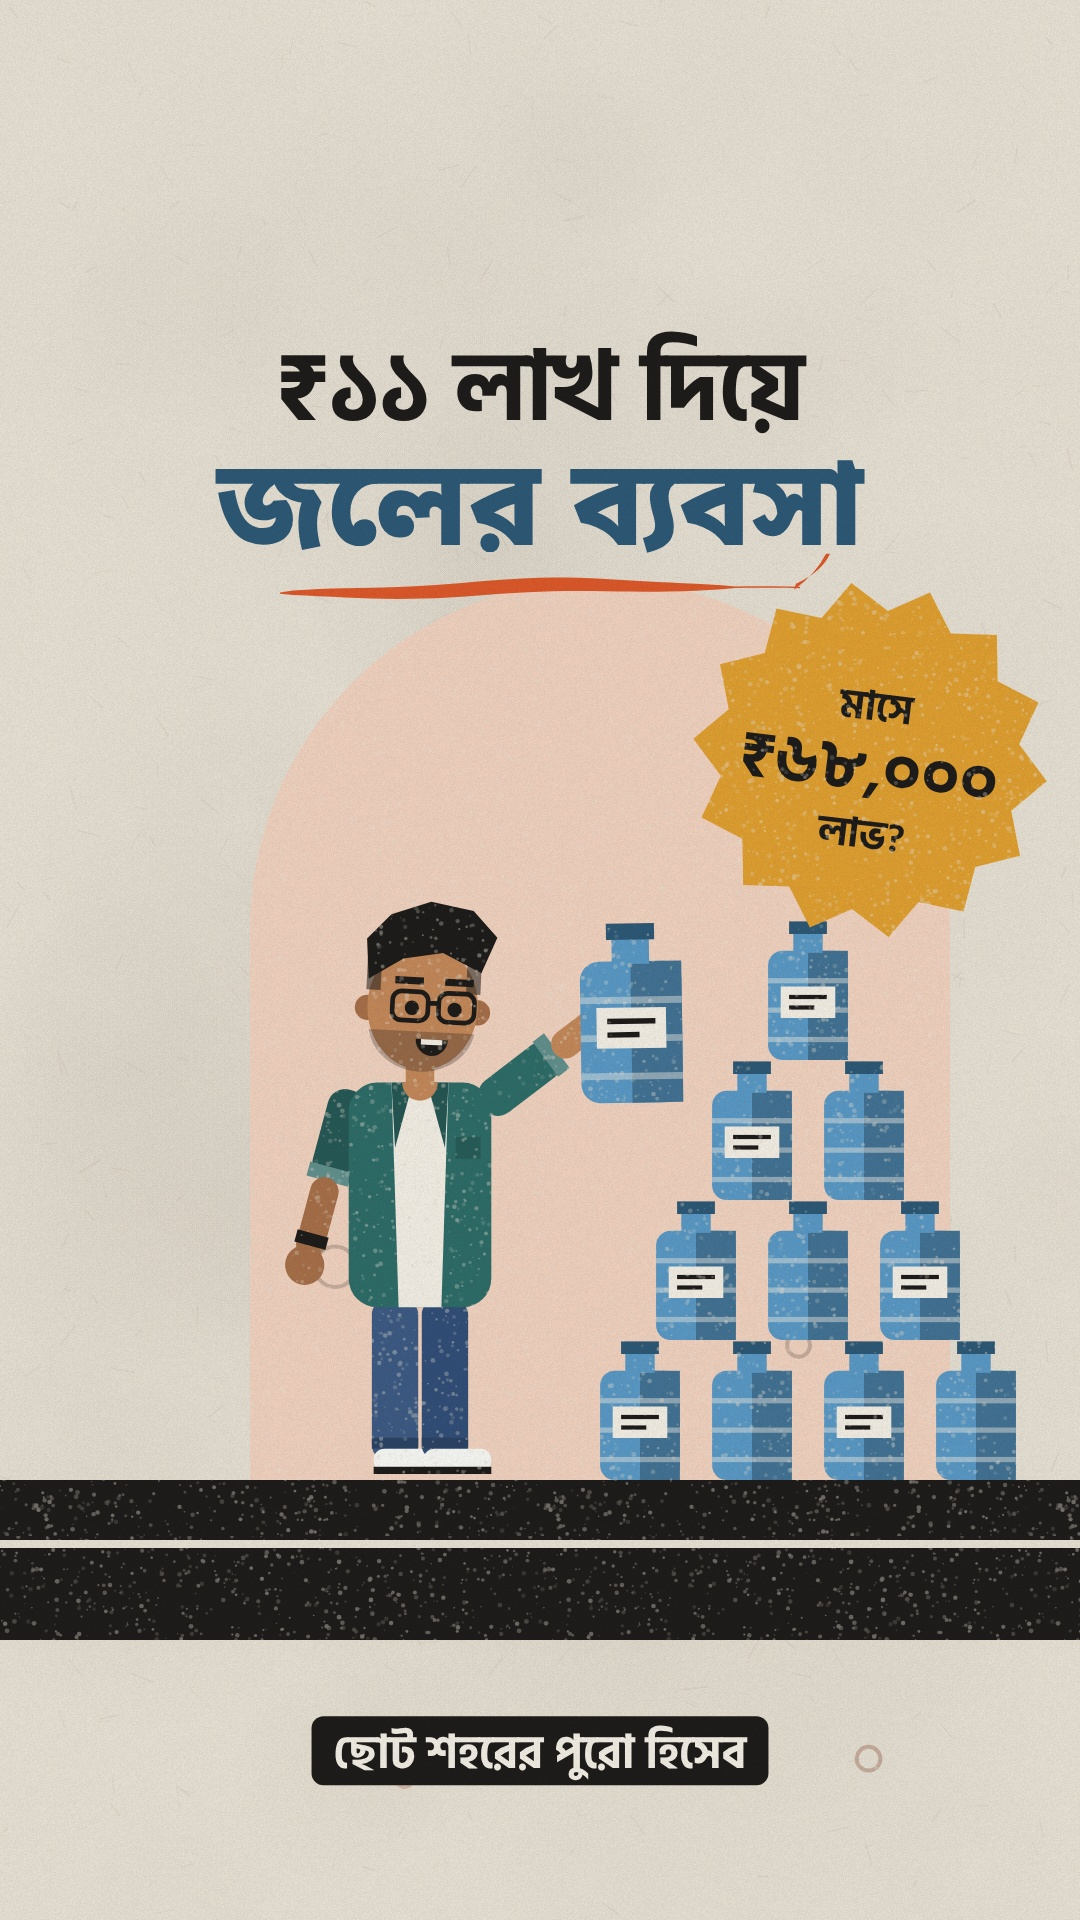
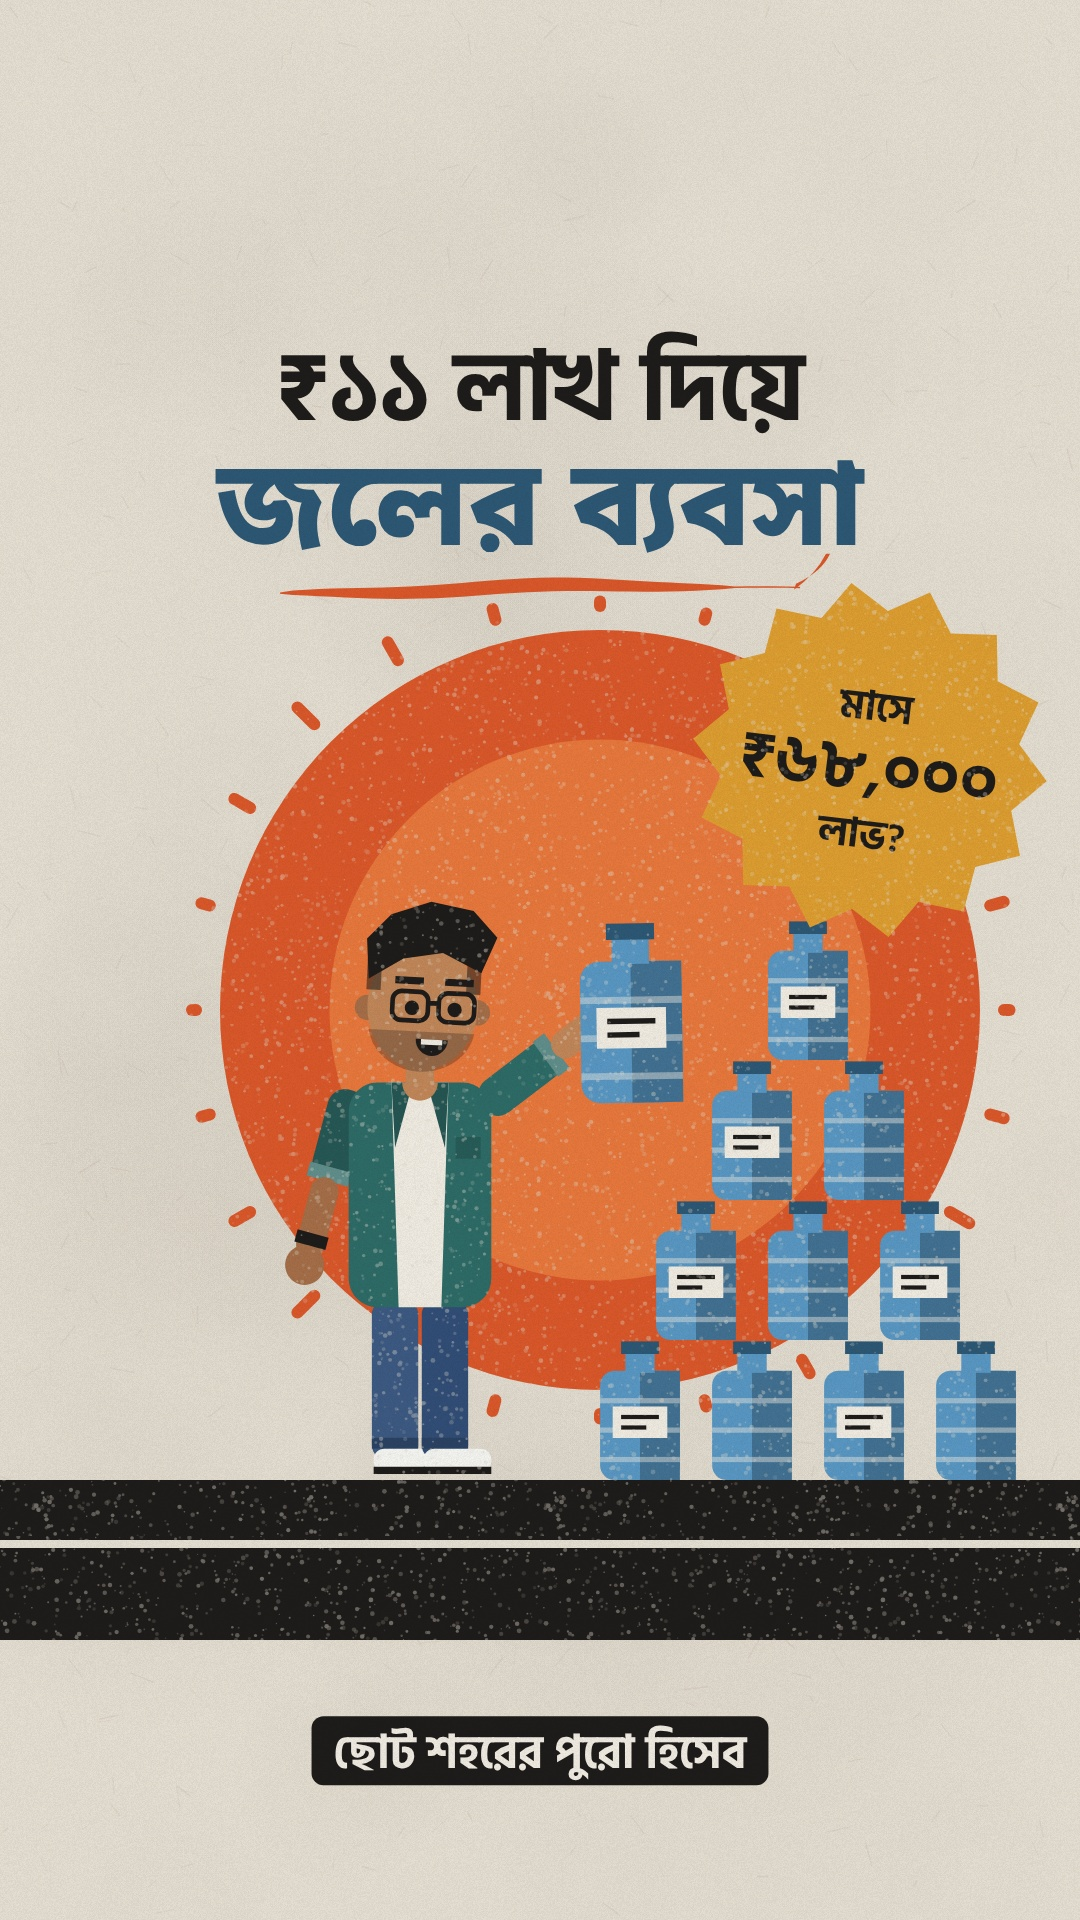
Orange sun circle back for the cover and first scene; lighter shapes with subtle halftone elsewhere
Claude-Session: https://claude.ai/code/session_01LrRKgZUbAWzSZxm4b8XdCu

Changed region(s): [[0.1833, 0.3125, 0.9472, 0.75], [0.8861, 0.625, 0.9167, 0.6562], [0.7944, 0.9062, 0.825, 0.9375]]

diff --git a/water-business/film.js b/water-business/film.js
@@ -244,35 +244,56 @@ const ART = {};
 // ---- soft modern backdrops (light tints), one shape per scene, gently animated
 const PAL = { peach: '#F5D5C2', mint: '#D3E6D8', sky: '#D2E2EE', butter: '#F4E4B8', lilac: '#E3D8EC', blush: '#F2D0CA', sand: '#EBDDC6' };
 const BACK = {
-  S01: ['arch', PAL.peach, 540, 1282, 640, 820], S02: ['blob', PAL.lilac, 520, 930, 380], S03: ['round', PAL.butter, 540, 900, 820, 760],
+  S01: ['sun', C.orange, 540, 900, 360], S02: ['blob', PAL.lilac, 520, 930, 380], S03: ['round', PAL.butter, 540, 900, 820, 760],
   S04: ['arch', PAL.lilac, 540, 1330, 760, 860], S05: ['round', PAL.mint, 540, 840, 900, 980], S06: ['blob', PAL.butter, 540, 860, 400],
   S07: ['round', PAL.sky, 540, 900, 900, 860], S08: ['blob', PAL.blush, 560, 960, 400], S09: ['arch', PAL.mint, 540, 1180, 820, 780],
   S10: ['blob', PAL.lilac, 540, 880, 410], S11: ['arch', PAL.sand, 470, 1330, 700, 800], S12: ['wave', PAL.mint, 540, 860, 960, 700],
   S13: ['round', PAL.peach, 540, 880, 900, 900], S14: ['split', PAL.peach, 540, 830, 920, 760], S15: ['arch', PAL.butter, 540, 1180, 860, 860],
-  S16: ['blob', PAL.peach, 540, 960, 420], INTRO: ['arch', PAL.peach, 600, 1480, 700, 900],
+  S16: ['blob', PAL.peach, 540, 960, 420], INTRO: ['sun', C.orange, 600, 1010, 380],
 };
 function backdrop(g, key, t, v) {
   const b = BACK[key]; if (!b || v <= 0) return;
   const [kind, col, x, y] = b, k = eo(v);
+  if (kind === 'sun') { g.save(); g.translate(x, y); g.scale(lerp(0.7, 1, back(v, 1.3)), lerp(0.7, 1, back(v, 1.3))); g.translate(-x, -y); sunDisc(g, x, y, b[4], t); g.restore(); return; }
   g.save(); g.globalAlpha *= clamp(v * 1.5);
-  if (kind === 'blob') {
-    const r = b[4] * lerp(0.6, 1, k); g.fillStyle = col; g.beginPath();
-    for (let i = 0; i <= 64; i++) { const a = i / 64 * TAU, rr = r * (1 + 0.07 * Math.sin(a * 3 + t * 0.9) + 0.05 * Math.sin(a * 5 - t * 1.3)); g.lineTo(x + Math.cos(a) * rr, y + Math.sin(a) * rr * 0.92); }
-    g.closePath(); g.fill();
-  } else if (kind === 'arch') {
-    const w = b[4] * lerp(0.8, 1, k), h = b[5] * k * (1 + Math.sin(t * 1.2) * 0.006);
-    g.fillStyle = col; g.beginPath(); g.moveTo(x - w / 2, y); g.lineTo(x - w / 2, y - h + w / 2); g.arc(x, y - h + w / 2, w / 2, Math.PI, 0); g.lineTo(x + w / 2, y); g.closePath(); g.fill();
-  } else if (kind === 'round') {
-    const w = b[4] * lerp(0.85, 1, k), h = b[5] * lerp(0.85, 1, k);
-    g.translate(x, y); g.rotate(Math.sin(t * 0.5) * 0.012); rrect(g, -w / 2, -h / 2, w, h, 90, col);
-  } else if (kind === 'wave') {
-    const w = b[4], h = b[5] * k; g.fillStyle = col; g.beginPath(); g.moveTo(x - w / 2, y + h / 2);
-    for (let i = 0; i <= 40; i++) { const u = i / 40; g.lineTo(x - w / 2 + w * u, y - h / 2 + Math.sin(u * 7 + t * 1.2) * 22); }
-    g.lineTo(x + w / 2, y + h / 2); g.closePath(); g.fill();
-  } else if (kind === 'split') {
-    rrect(g, x - b[4] / 2, y - b[5] / 2 - 30, b[4], b[5] / 2, 70, PAL.peach); rrect(g, x - b[4] / 2, y + 20, b[4], b[5] / 2, 70, PAL.sky);
+  const path = (ox = 0, oy = 0, sc = 1) => {
+    g.beginPath();
+    if (kind === 'blob') {
+      const r = b[4] * lerp(0.6, 1, k) * sc;
+      for (let i = 0; i <= 72; i++) { const a = i / 72 * TAU, rr = r * (1 + 0.07 * Math.sin(a * 3 + t * 0.9) + 0.05 * Math.sin(a * 5 - t * 1.3)); g.lineTo(x + ox + Math.cos(a) * rr, y + oy + Math.sin(a) * rr * 0.92); }
+      g.closePath();
+    } else if (kind === 'arch') {
+      const w = b[4] * lerp(0.8, 1, k) * sc, h = b[5] * k * sc * (1 + Math.sin(t * 1.2) * 0.006);
+      g.moveTo(x + ox - w / 2, y + oy); g.lineTo(x + ox - w / 2, y + oy - h + w / 2); g.arc(x + ox, y + oy - h + w / 2, w / 2, Math.PI, 0); g.lineTo(x + ox + w / 2, y + oy); g.closePath();
+    } else if (kind === 'round') {
+      const w = b[4] * lerp(0.85, 1, k) * sc, h = b[5] * lerp(0.85, 1, k) * sc; g.roundRect(x + ox - w / 2, y + oy - h / 2, w, h, 90);
+    } else if (kind === 'wave') {
+      const w = b[4] * sc, h = b[5] * k * sc; g.moveTo(x + ox - w / 2, y + oy + h / 2);
+      for (let i = 0; i <= 40; i++) { const u = i / 40; g.lineTo(x + ox - w / 2 + w * u, y + oy - h / 2 + Math.sin(u * 7 + t * 1.2) * 22); }
+      g.lineTo(x + ox + w / 2, y + oy + h / 2); g.closePath();
+    } else if (kind === 'split') {
+      g.roundRect(x + ox - b[4] / 2, y + oy - b[5] / 2 - 30, b[4], b[5] / 2, 70); g.roundRect(x + ox - b[4] / 2, y + oy + 20, b[4], b[5] / 2, 70);
+    }
+  };
+  const fillCol = kind === 'split' ? null : col;
+  // 1) soft shadow + a deeper second paper layer peeking out (paper-cut depth)
+  g.save(); path(18, 20); g.fillStyle = 'rgba(80,55,30,0.10)'; g.fill(); g.restore();
+  g.save(); g.translate(x, y); g.rotate(-0.025); g.translate(-x, -y); path(-10, -8, 1.0); g.fillStyle = mixc(kind === 'split' ? PAL.peach : col, '#000000', 0.06); g.fill(); g.restore();
+  // 2) main shape
+  if (kind === 'split') { g.save(); g.beginPath(); g.roundRect(x - b[4] / 2, y - b[5] / 2 - 30, b[4], b[5] / 2, 70); g.fillStyle = PAL.peach; g.fill(); g.beginPath(); g.roundRect(x - b[4] / 2, y + 20, b[4], b[5] / 2, 70); g.fillStyle = PAL.sky; g.fill(); g.restore(); }
+  else { path(); g.fillStyle = fillCol; g.fill(); }
+  // 3) inside the shape: halftone dots on one side + print grain
+  g.save(); path(); g.clip();
+  const dc = mixc(kind === 'split' ? PAL.sky : col, '#000000', 0.09), x0 = x + 60, y0 = y + 40;
+  g.fillStyle = dc;
+  for (let gy = -460; gy <= 460; gy += 26) for (let gx = -480; gx <= 480; gx += 26) {
+    const px = x + gx + (Math.round(gy / 26) % 2 ? 13 : 0), py = y + gy, d = Math.hypot(px - (x + 420), py - (y + 380)) / 620;
+    const r = 6.5 * clamp(1 - d) ** 1.4; if (r > 0.6) { g.beginPath(); g.arc(px, py, r, 0, TAU); g.fill(); }
   }
-  // a few small modern accents (dots / rings) floating around the shape
+  g.restore();
+  // 4) thin inner highlight edge (top-left), like a cut paper lip
+  g.save(); path(-3, -3, 1); g.strokeStyle = 'rgba(255,252,244,0.55)'; g.lineWidth = 3; g.stroke(); g.restore();
+// a few small modern accents (dots / rings) floating around the shape
   const R = rng(key.charCodeAt(1) * 31 + key.charCodeAt(2));
   for (let i = 0; i < 5; i++) {
     const ax = x + (R() - 0.5) * 900, ay = y + (R() - 0.5) * 760 + Math.sin(t * 1.4 + i) * 10, r = 6 + R() * 10;
@@ -744,7 +765,7 @@ export function thumb(g) {
   g.drawImage(PAPER, 0, 0);
   const L = LAYER.getContext('2d'); L.clearRect(0, 0, W, H);
   // big sun disc behind the hero
-  backdrop(L, 'INTRO', 0, 1);
+  sunDisc(L, 600, 1010, 380, 0);
   // jar pyramid (the business)
   const row = (n, y, x0) => { for (let i = 0; i < n; i++) jar(L, x0 + i * 112, y, 1.05, { label: i % 2 === 0 }); };
   row(4, 1480, 640); row(3, 1340, 696); row(2, 1200, 752); row(1, 1060, 808);
